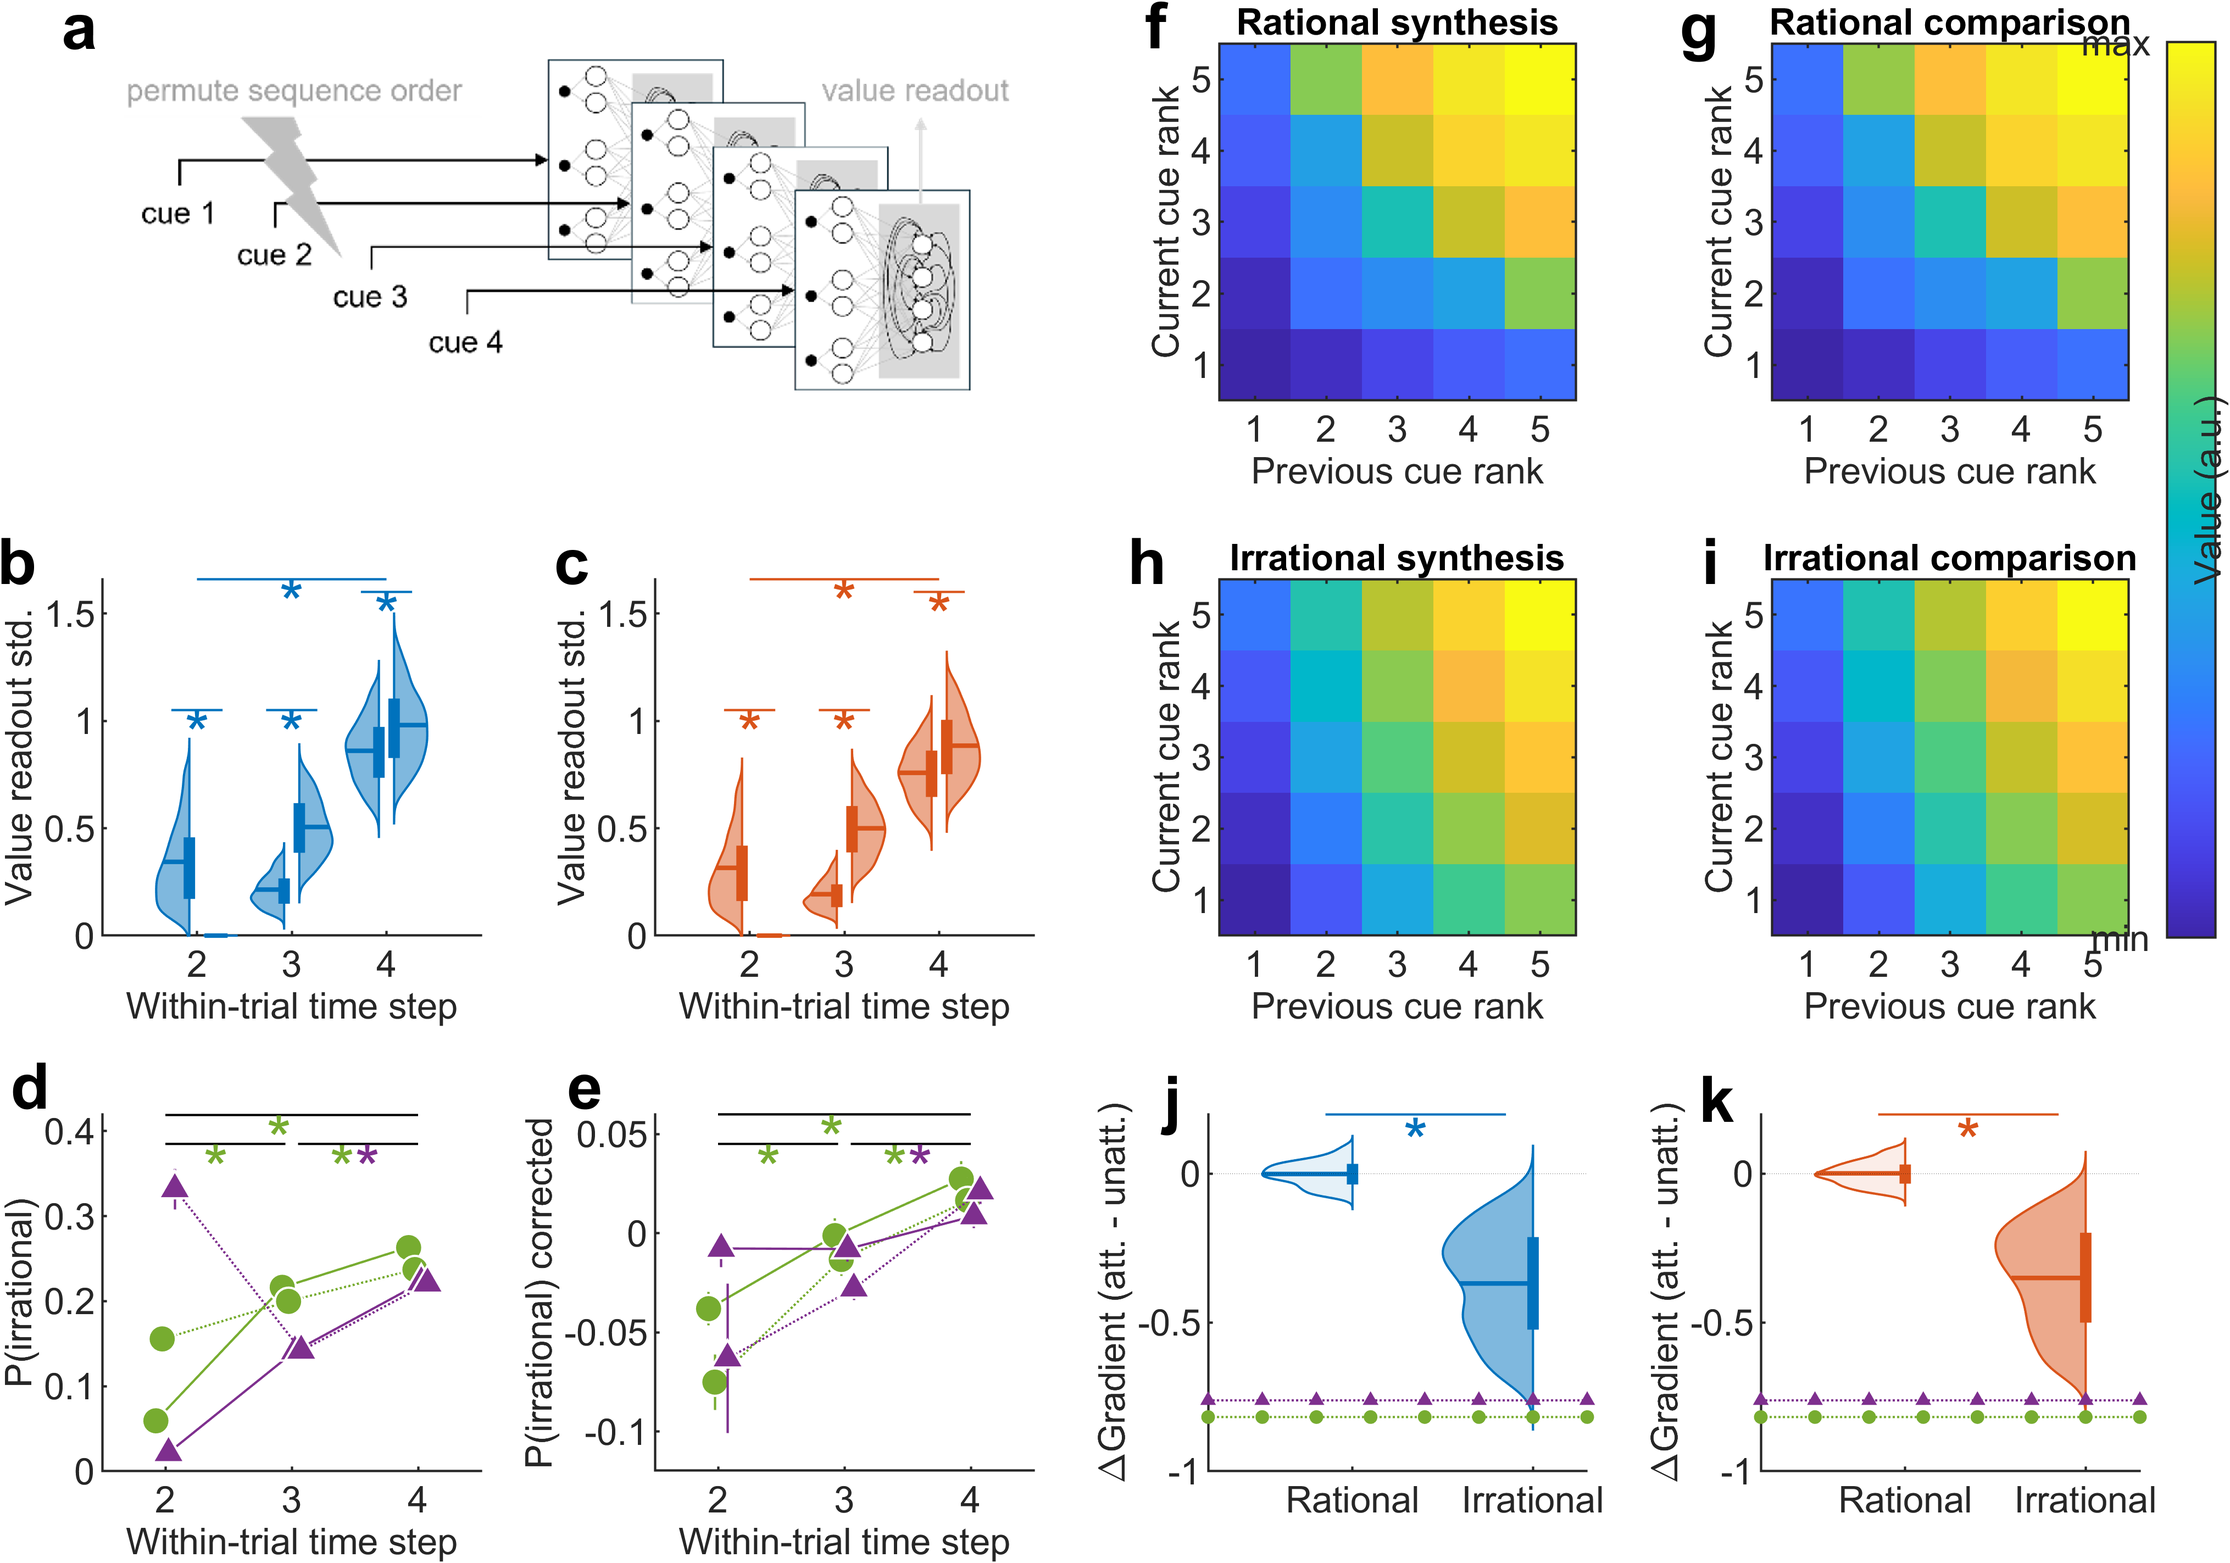
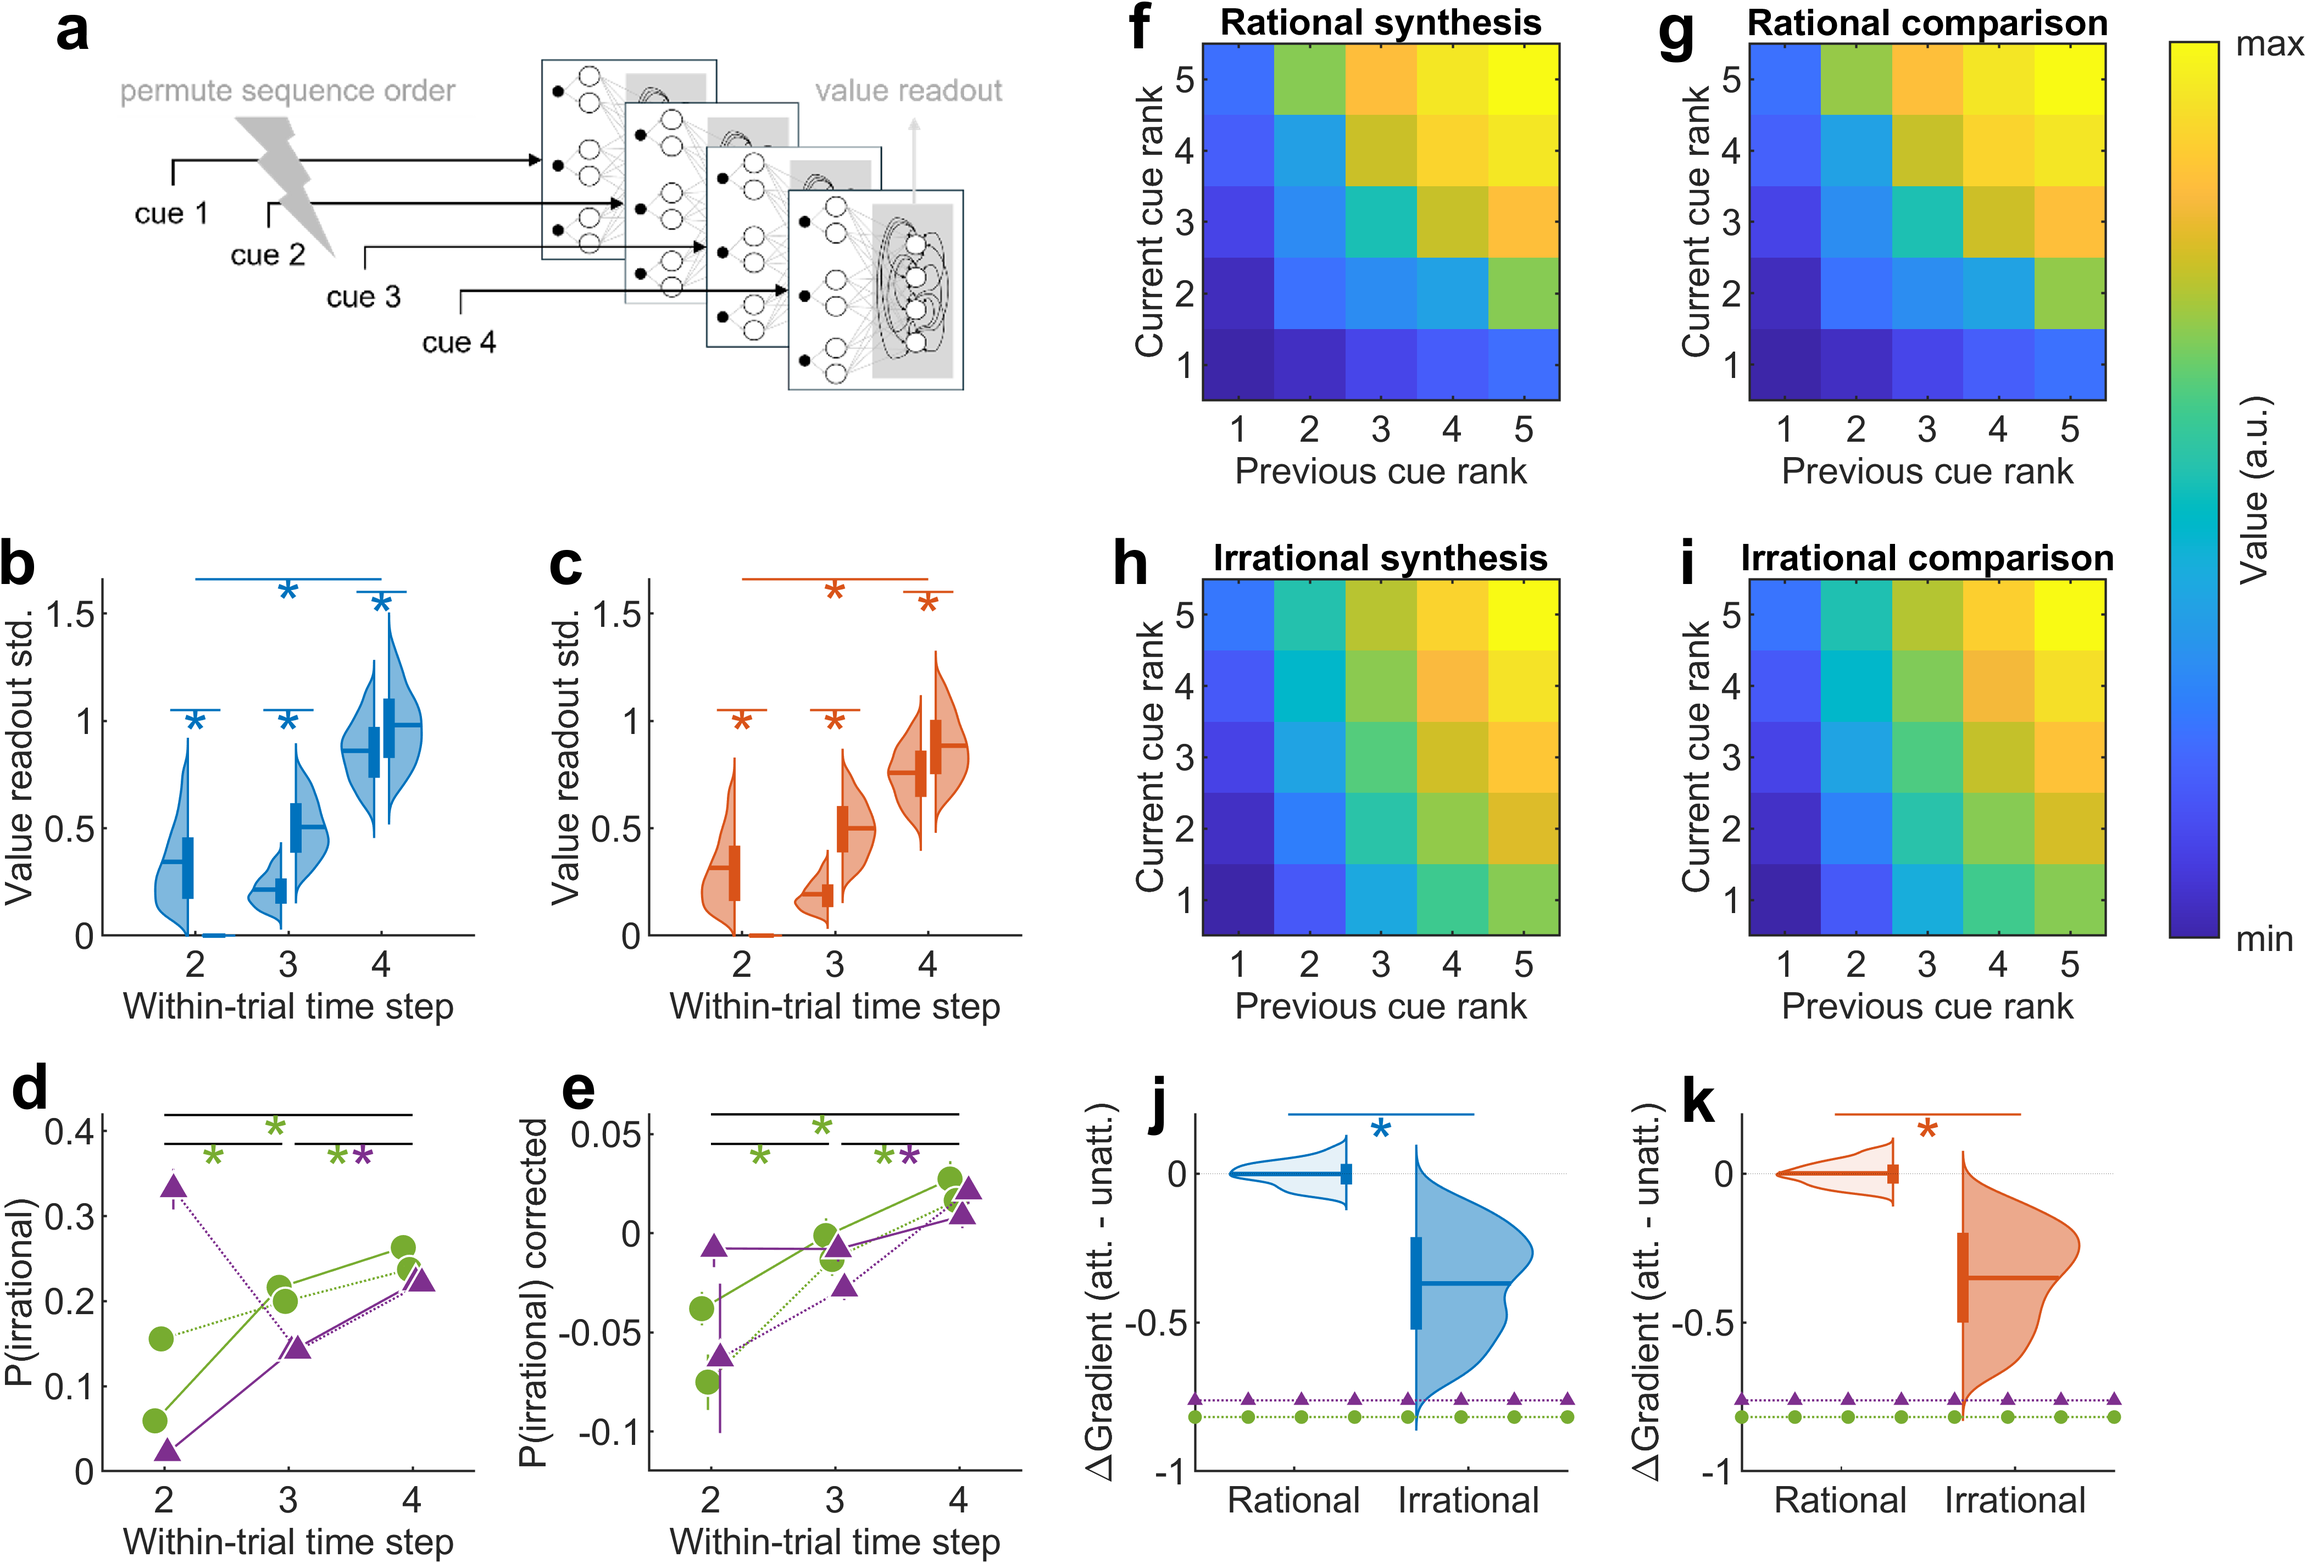
Aesthetic fig 4 changes

diff --git a/src/plots/fig4_interferences.m b/src/plots/fig4_interferences.m
@@ -70,7 +70,7 @@ movegui(f, "center");
 t = tiledlayout(f, 3, 4, ...
     TileSpacing="loose", ...
     Units="centimeters", ...
-    Position=[1, 1, 15.7, 11]);
+    Position=[1, 1, 15.5, 11]);
 
 % Subplots
 plotImageInAx(nexttile(1, [1, 2]), fullfile(getPath("Figures"), "fig4a.png"));
@@ -125,7 +125,7 @@ fontname(f, "arial");
 cbar.YAxisLocation = "right";
 
 
-%% === Save figure ========================================================
+% === Save figure ========================================================
 
 exportgraphics(f, fullfile(getPath("Figures"), "fig4.pdf"), ContentType="vector");
 exportgraphics(f, fullfile(getPath("Figures"), "fig4.png"), Resolution=600);
